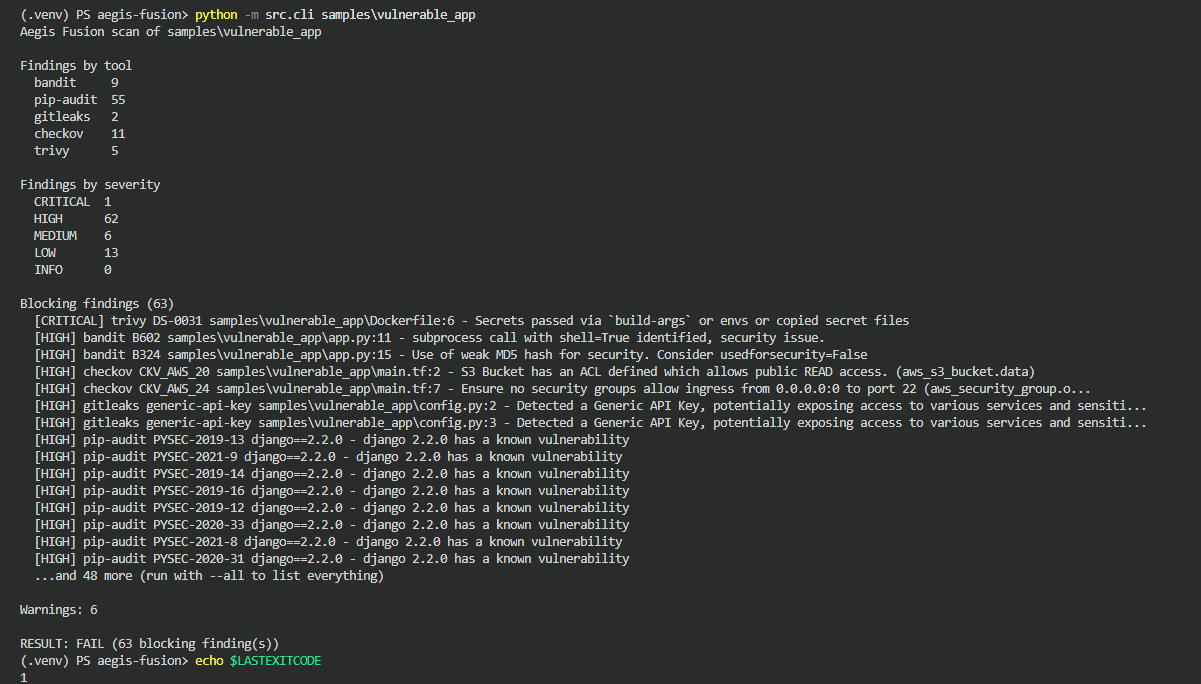
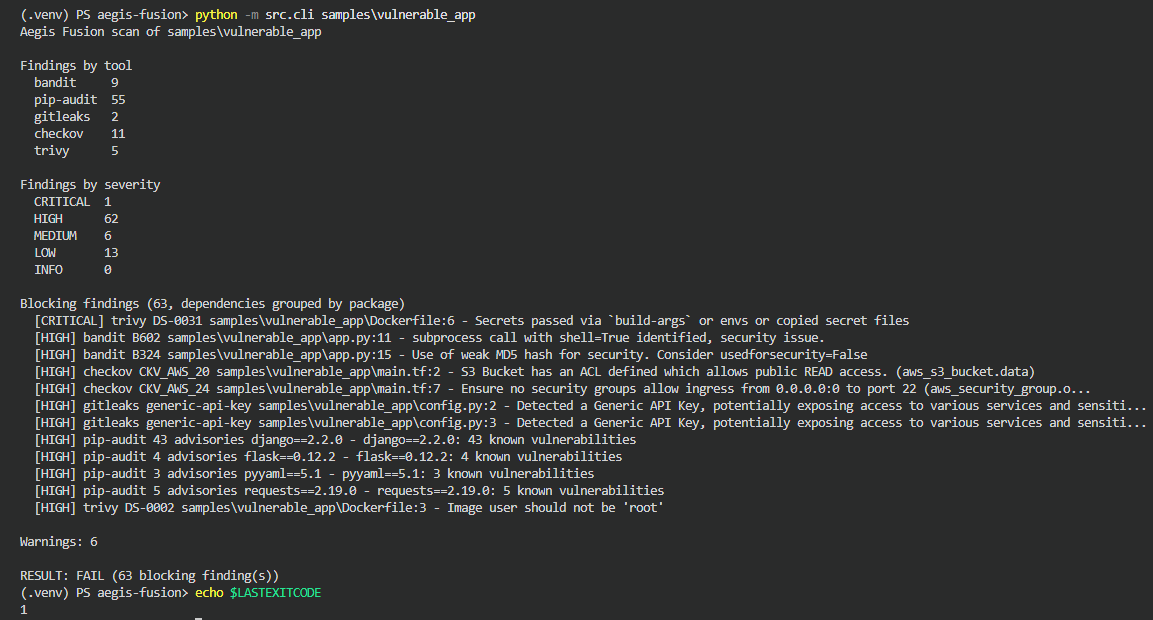
Polish README and refresh hero screenshot (#8)
* Polish README: current hero screenshot, before/after merge gate, build log

* Polish README: before/after merge gate screenshot and build log section

Changed region(s): [[0.0, 0.0919, 0.9679, 1.0], [0.0, 0.0, 0.4059, 0.0613]]

diff --git a/README.md b/README.md
@@ -18,10 +18,6 @@ A DevSecOps security automation tool. It runs five open-source scanners against 
 
 Gitleaks, Checkov, and Trivy run in Docker, so nothing else needs installing.
 
-![Bandit, pip-audit and Gitleaks results in one run](docs/images/03-all-three-scanners.png)
-
-![Checkov, Trivy Dockerfile and Trivy image results](docs/images/04-iac-and-container-scanners.png)
-
 ## Quick start
 
 Requires Python 3.14 (what I develop and test on) and Docker.
@@ -102,7 +98,11 @@ Every pull request runs the unit tests and then the scan. A failing scan turns t
 
 ![Failed CI run: tests passed, security-scan failed with exit code 1](docs/images/08-ci-red.png)
 
-`main` is protected by a repository ruleset. A pull request needs both `tests` and `security-scan` to pass, and nobody can bypass the rule or push directly to `main`. The same failing check that earlier left the merge button active now blocks it:
+Before I added branch protection, a failing check only warned. The merge button stayed active:
+
+![Failing check, but the merge button is still active](docs/images/07-pr-failing-check.png)
+
+`main` is now protected by a repository ruleset. A pull request needs both `tests` and `security-scan` to pass, and nobody can bypass the rule or push directly to `main`. The same failing check now blocks the merge:
 
 ![Merge pull request button disabled because required checks failed](docs/images/07b-pr-merge-blocked.png)
 
@@ -157,6 +157,14 @@ Run the tests with:
 ```powershell
 python -m pytest tests -v
 ```
+
+## Build log
+
+These early screenshots show each scanner's raw output as I integrated it, before the results were normalized into one format. The current CLI prints the unified report shown at the top of this page.
+
+![Bandit, pip-audit and Gitleaks, early milestone](docs/images/03-all-three-scanners.png)
+
+![Checkov and Trivy, early milestone](docs/images/04-iac-and-container-scanners.png)
 
 ## A note on the samples
 
